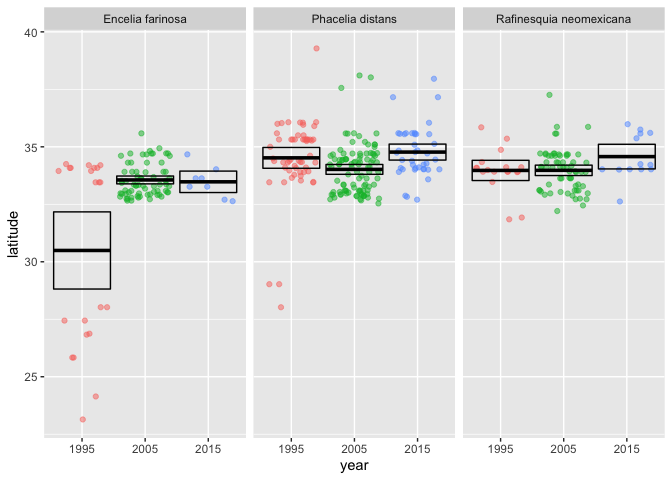
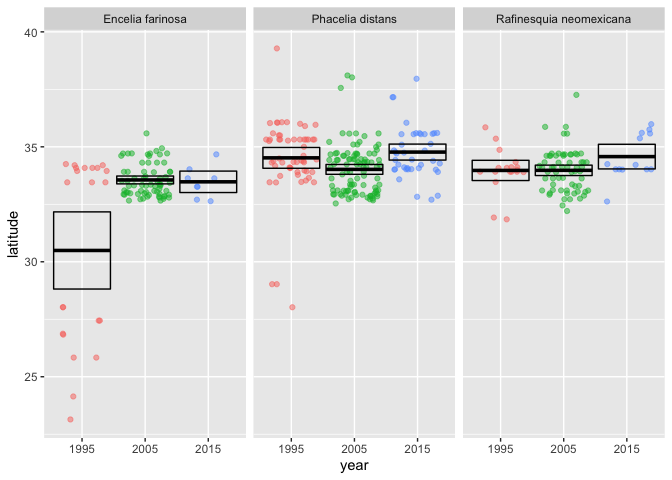
ReadMe work

diff --git a/README.md b/README.md
@@ -1,33 +1,24 @@
 
 <img src="https://www2.mnstate.edu/uploadedImages/Content/Marketing/logos/MSUM_Signature_Vert_Color.jpg" alt="MSUM logo" width="200" style="float:right"/>
 
-# Climate Changes Effect on Plant Species
+# Climate Change’s Effect on Plant Species
 
-Lukas Robinson & Chris Merkord
+Lukas Robinson
 
 Biosciences Department, Minnesota State University Moorhead, 1104 7th
 Avenue South, Moorhead, MN 56563 USA
 
 ## Abstract
 
-Climate change here on Earth is at an alarming stage, with a steady
-increase in atmospheric carbon dioxide affecting how plants
-photosynthesis, to the unbalanced situations in climatic conditions,
-some places prolonged droughts and in others increased flooding. These
-issues are causing major problems for plant species worldwide. Climate
-change is defined as a long-term change in the average weather patterns
-that have come to define Earth’s local, regional and global climates.
-Just with this definition, we can hypothesis that as climate change
-slowly changes Earth’s local, regional and global climates plant species
-will be affected in some way. In this research project, I will be
-answering how climate change is affecting these plant species based on
-their plant distribution over time. To define plant distribution I will
-be looking at three different time periods and three common plant
-species found at different elevations in Arizona and California then
-comparing the abundance and distribution of those plant species in that
-area. I will be using the Botanical Information and Ecology Network
-(BIEN) package to look at all of the data and the BIEN data will be the
-data presented.
+The Botanical Information and Ecology Network (BIEN) brings together
+data on plant distribution, abundance, and traits, with the goal of
+predicting the effects of climate change on plant species. This project
+will analyze how the distribution, abundance, elevation, and latitude of
+three different plant species found in the Arizona and California area
+changed over two decades.
+
+I will be using the BIEN package to look at all of the data and will be
+the data presented in this project.
 
 ## Introduction
 
@@ -35,82 +26,106 @@ Climate change here on Earth is at an alarming stage, with a steady
 increase in atmospheric carbon dioxide affecting how plants
 photosynthesis, to the unbalanced situations in climatic conditions,
 some places prolonged droughts and in others increased flooding. These
-issues are causing major problems for plant species worldwide. Climate
-change is defined as a long-term change in the average weather patterns
-that have come to define Earth’s local, regional and global climates.
-Just with this definition, we can hypothesis that as climate change
-slowly changes Earth’s local, regional and global climates plant species
-will be affected in some way.
+issues are causing major problems for plant species worldwide.
 
-<img src="images/Encelia_farinosa.jpg" width="224"/>
+Climate change is defined as a long-term change in the average weather
+patterns that have come to define Earth’s local, regional and global
+climates. Just with this definition, we can hypothesis that as climate
+change slowly changes Earth’s local, regional and global climates plant
+species will be affected in some way but how?
 
-<img src="images/Phacelia Distans.jpg" width="252"/>
+To show how climate change is effecting these plants I will be taking
+three different species and examine how their abundance, distribution,
+elevation, and latitudes change over two decades.
 
-<img src="images/Rafinesquia neomexicana.jpg.crdownload" width="222"/>
+<img src="images/Encelia_farinosa.jpg" width="254"/>
+
+<img src="images/Phacelia Distans.jpg" width="284"/>
+
+<img src="images/RN.jpg" width="310"/>
+
+Figure 1. This shows the three plant species being observed in this
+experiment. Encelia Farinosa (left) and are very common, Phacelia
+Distans (middle) found typically between 1,000 and 4,000 feet, and
+Rafinesquia Neomexicana (right) found typically between 200 and 3,000
+feet.
 
 ## Methods
 
 ### Data Acquisition
 
 For this project, all the data was analyzed and manipulated using
-RStudio (RStudio Team 2020). I obtained data from the Botanical
-Information and Ecology Network (BIEN, 2021). This data was acquired
-using the R package known as BIEN (Maitner, 2020). BIEN was used to
-obtain information about plant distribution and abundance over numerous
-years. No special access was required to access this resource I just
-needed to download the package into R Studio before looking at the data.
-Since the data from the BIEN package is so large I narrowed down my
-search for a good research project by searching for three plant species
-using information found from azstateparks.com.
+RStudio (RStudio Team 2020). The plant species latitude, date collected,
+and year data was acquired from the Botanical Information and Ecology
+Network (BIEN 2021). This data was obtained using the R package known as
+BIEN (Maitner, 2020). The elevation data used in this experiment was
+acquired from the elevatr package (Hollister J.W. 2020) found in
+RStudio.
+
+No special access was required to access these resources I just needed
+to download the package into R Studio before being able to look at the
+data. azstateparks.com was used to narrow down the search for a good
+plant species to study.
 
 ### Data Preparation
 
-After first loading in all of the required packages, my data was first
+After first loading in all of the required packages, data was first
 prepared for analysis by filtering through all the plant species in the
-BIEN package to only the three plant species that I wanted to look at.
+BIEN package to only the three plant species being observed in the
+experiment.
 
-Once I filtered out my three species I then bound these three data sets
-together into one and simplified that data set to only have the
-categories I needed for my research. The categories include species,
-date collected, year, and geometry. By doing this it helped me better
+Once the species were filtered out the three data sets were then bound
+together into one and simplified into a data set to only have the
+categories needed for my research. The categories include species, date
+collected, year, and geometry. By doing this it helped me better
 understand how large my sample size will be for this experiment.
 
-After I created this new data set, I filtered out the two states that I
-will be looking at, California and Arizona. Once that was done I graphed
-the data into three separate rows and columns. This showed what the
-distribution looked like of the three plant species over the three given
-years.
+After this new data set was created, the two states that were being
+examined were filtered out to only show California and Arizona. Once
+that was done the data was graphed into three separate rows and columns.
+This showed what the distribution looked like of the three plant species
+over the three given years.
 
-Next, I used the elevatr package to help me get each elevation point for
-the plant species found in the data set. This was done by filtering each
+Next, the elevatr package was used to get each elevation point for the
+plant species found in the data set. This was done by filtering each
 plant species individually then binding those data sets together. Then
-calculating the mean, standard deviation, sample size, standard error,
-and the upper and lower limit. This allowed me to then be able to plot
-these plant species and see what each of their mean and their 95%
-confidence interval look like over time and how it has changed.
+calculate the mean, standard deviation, sample size, standard error, and
+the upper and lower limit. This allowed was then graphed to examine
+these plant species and see how each of their mean and 95% confidence
+interval changed over time.
 
 The same process was done to get the latitude graph over time. The only
-difference was plugging in latitude instead of elevation. I then graphed
+difference was plugging in latitude instead of elevation then graphing
 this to see how the mean latitude of these species has changed.
 
 ## Results
 
 ![](README_files/figure-gfm/unnamed-chunk-5-1.png)<!-- -->
 
-Figure 1. A map displaying the distributions of the three plant species
+Figure 2. A map displaying the distributions of the three plant species
 in Arizona and California for the years 1995, 2005, and 2015.
 
 ![](README_files/figure-gfm/unnamed-chunk-9-1.png)<!-- -->
 
-Figure 2. A jitter plot displaying the different elevations and means of
+Figure 3. A jitter plot displaying the different elevations and means of
 the three plant species over the years 1995, 2005, and 2015.
 
 ![](README_files/figure-gfm/unnamed-chunk-11-1.png)<!-- -->
 
-Figure 3. A jitter plot displaying the different latitudes and means of
+Figure 4. A jitter plot displaying the different latitudes and means of
 the three plant species over the years 1995, 2005, and 2015.
 
 ## Discussion
+
+Figure 3 and 4 shows a general increase in the elevations and latitudes
+of the Phacelia Distant and Rafinesquia Neomexicana plant species over
+the two decades. In a research article dedicated to looking at the
+upward elevation and northwest range shifts of alpine plant species it
+stated that “climate change may impact the distribution of species by
+shifting their ranges to higher elevations or higher latitudes”
+(Burgress et al, 2019). This directly correlates with the elevation and
+latitude data found in the Phacelia and Rafinesquia species observed in
+this project.
 
 ## References
 
